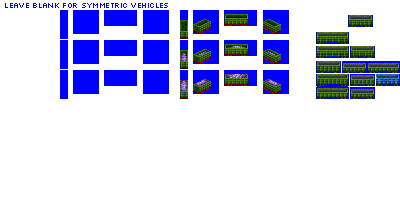
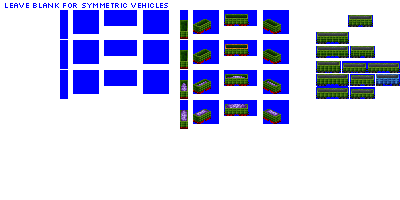
Change: (WIP) second livery for dump cars

diff --git a/src/train.py b/src/train.py
@@ -759,7 +759,7 @@ class DumpCarConsist(CarConsist):
         # allow flipping, used to flip company colour
         self.allow_flip = True
         # Graphics configuration
-        self.gestalt_graphics = GestaltGraphicsVisibleCargo(bulk=True)
+        self.gestalt_graphics = GestaltGraphicsVisibleCargo(bulk=True, has_alt_livery=True)
 
 
 class EdiblesTankCarConsist(CarConsist):
